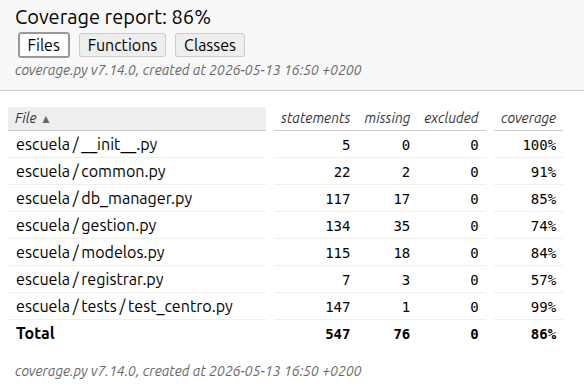
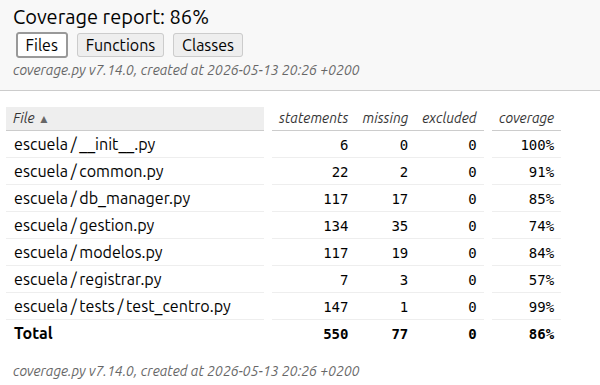
Correcciones para entrega

diff --git a/escuela/__init__.py b/escuela/__init__.py
@@ -1,6 +1,7 @@
 from .common import DatoInvalido, Duplicado, BaseDatosError, Validator
 from .modelos import Persona, Asignatura, Alumno, Profesor
 from .gestion import CentroEducativo
+from .db_manager import DBManager
 from .registrar import Registrar
 
 __all__ = [
@@ -13,5 +14,6 @@ __all__ = [
     "Alumno",
     "Profesor",
     "CentroEducativo",
+    "DBManager",
     "Registrar",
 ]

diff --git a/main.py b/main.py
@@ -1,7 +1,5 @@
 from app.interfaz_usuario import InterfazConsola
-from escuela.modelos import Duplicado, DatoInvalido
-from escuela.registrar import Registrar
-from escuela.common import BaseDatosError
+from escuela import Duplicado, DatoInvalido, Registrar, BaseDatosError
 
 
 def main():

diff --git a/app/interfaz_usuario.py b/app/interfaz_usuario.py
@@ -1,8 +1,4 @@
-from escuela.gestion import CentroEducativo
-from escuela.modelos import (
-    Alumno,
-    Validator,
-)
+from escuela import CentroEducativo, Alumno, Validator
 
 
 class InterfazConsola:
